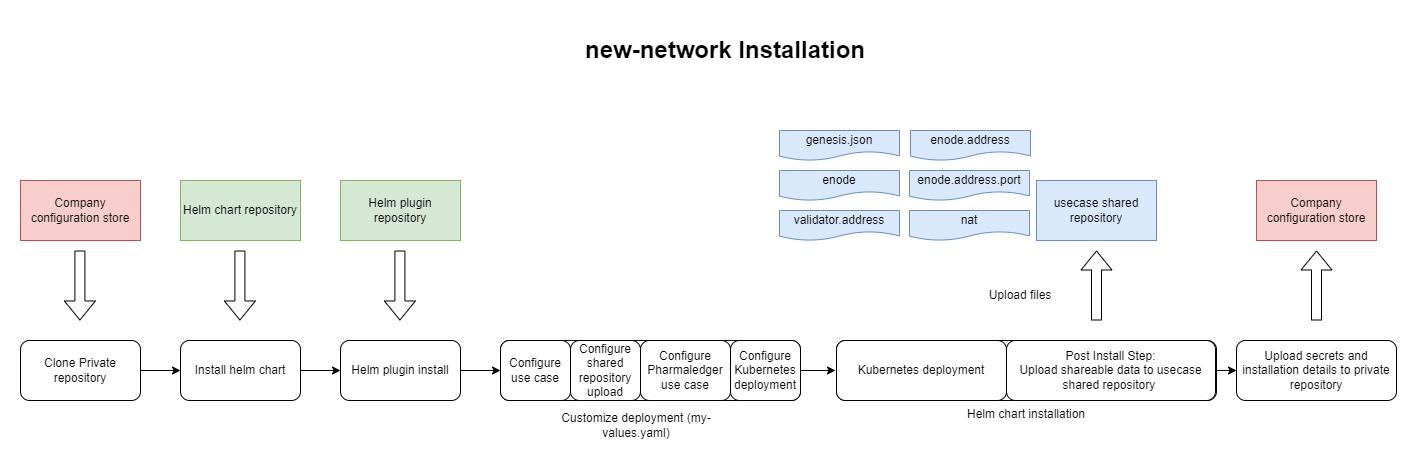
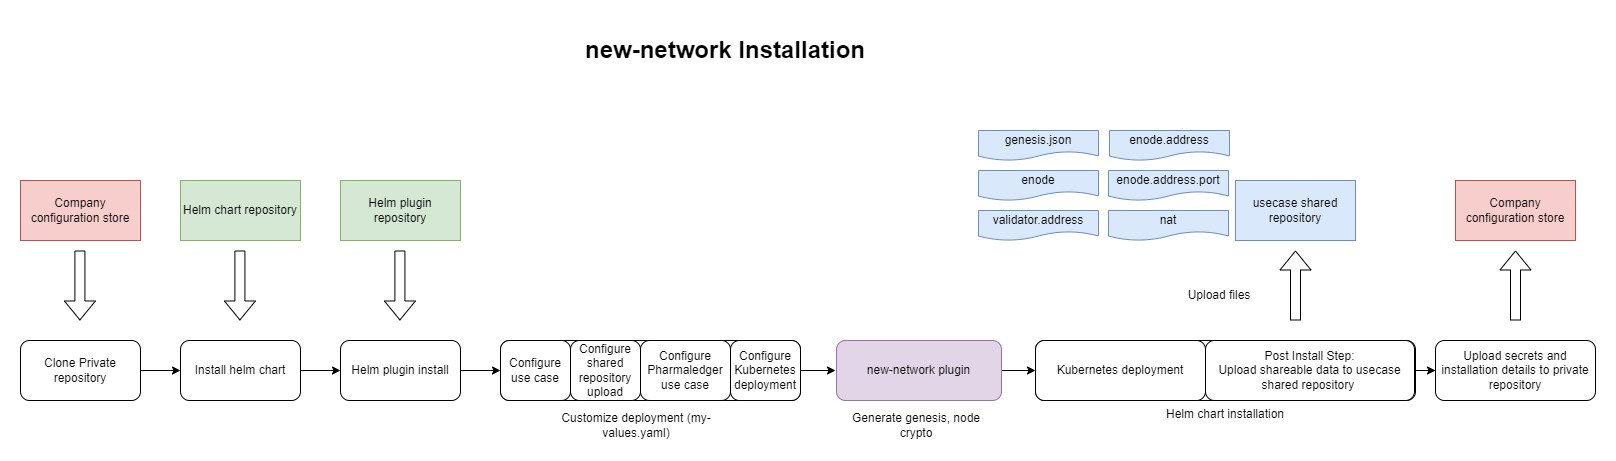
update use case docs

diff --git a/usecases/join-network/readme.md b/usecases/join-network/readme.md
@@ -1,67 +1,178 @@
-
-
 ## JoinNetwork use case
 
 Deploy a quorum blockchain node using the shared information from a configuration repository. After the deployment, the public node information is uploaded to a chosen repository
 
-Chart name: join-network <br/>
-Plugin : join-network
+[Chart name: quorum-node](../../charts/quorum-node)<br/>
+[Plugin : join-network](https://github.com/PharmaLedger-IMI/helm-pl-plugin)
 
-### Joining Quorum Blockchain node deployment
+## Quorum node deployment
 
-#### Step 1: Clone your private config repository in the folder "private_configs"
+1. [Fresh Install](readme.md#fresh-install)
+2. [Standard Upgrade of the installation](readme.md#upgrade-the-installation)
+
+## Fresh Install
+
+![](join-network%20-%20install.jpg)
+
+### Step 1: Clone your private config repository in the folder "private_configs"
 
 
 1. After the repository was cloned, change the directory to the "private_configs" folder
 ```shell
 cd private_configs
 ```
-2. Create a folder which will represent your installation, like "network_name/charts/quorum-join-node-0" and change the directory to that folder
+2. Create a folder which will represent your installation, like "network_name/charts/quorum-node" and change the directory to that folder
 ```shell
-cd network_name/charts/quorum-join-node-0
+cd network_name/charts/quorum-node
 ```
 
-#### Step 2: Install the helm chart and the plugin
+### Step 2: Install the helm chart and the plugin
 
 1. Register the official, or the forked helm charts repository
 ```shell
-helm repo add helm-charts https://raw.githubusercontent.com/PharmaLedger-IMI/helm-charts/master/charts/releases
+helm repo add pharmaledger-imi https://pharmaledger-imi.github.io/helm-charts
 ```
-2. Install the helm chart _join-network_
+2. Download the values for the helm chart _quorum-node_
 ```shell
-helm pull helm-charts/join-network --untar
+helm show values pharmaledger-imi/quorum-node > my-values.yaml
 ```
-3. Install the _join-network_ plugin
+3. Install the _pl-plugin_ plugin
 ```shell
-helm plugin install https://github.com/PharmaLedger-IMI/helm-charts/plugins/join-network
+helm plugin install https://github.com/PharmaLedger-IMI/helm-pl-plugin
 ```
 
-#### Step 3: Adjust private_configs/network_name/charts/quorum-join-node-0/join-network/values.yaml
+### Step 3: Adjust private_configs/network_name/charts/quorum-node/my-values.yaml
 
 The file contains parametrization for different sets of values:
-1. specific data for the upload of the public shared information
+1. specific data for the upload of the public shared information (example github token, user, email, etc)
 2. specific data for the use case network, company name, public blockchain node endpoint and port
 3. storage data used by the blockchain deployment
 4. different annotations or configurations for the deployment
 
-#### Step 4: Install the helm chart
+The structure of the values.yaml and the deployment use case matrix is documented in [quorum-node chart folder](../../charts/quorum-node/readme.md)
 
-1. Use the _join-network_ plugin to download the genesis file and generate the node cryptography. 
+See below the required configuration.<br/>
+
+
+### Enable the use case
+Example :
+```yaml
+use_case:
+  newNetwork:
+    enabled: false
+  joinNetwork:
+    # -- Enable the join-network use case. Can only be used in collaboration with updatePartnerInfo use case
+    enabled: true
+    genesis_file_location: "https://raw.githubusercontent.com/<path to genesis file>"
+```
+
+### Enable the automatic shared repository upload
+Example:
+```yaml
+git_upload:
+  ## @param git_upload.enabled Enable the automatic upload to the use case shared repository of the shareable data
+  enabled: true
+  ## @param git_upload.email The email used by the git in order to upload the data
+  email: "xxx@yyy.zz"
+  ## @param git_upload.user The user used by the git in order to upload the data
+  user: "xyz"
+  ## The repository url using access token
+  git_repo_with_access_token: "github url using token access"
+```
+
+### Configure the Pharmaledger use case
+If the enode address is known, fill the enode_address  with the known endpoint (dns name or real ip), otherwise an upgrade will be required when the enode_address is known.<br/>
+Example for ePI use case:
+```yaml
+deployment:
+   # -- The name of the company that makes the deployment
+   company: "company"
+   # -- The name of the use case that is being deployed
+   network_name: "epi"
+   # -- The Quorum node public ip address
+   enode_address: ""
+   # -- The Port of the Quorum node public address
+   enode_address_port: "30303"
+   # -- NAT address, used for firewall configuration
+   NAT: "1.2.3.4"
+```
+
+
+### Step 4: Install the helm chart
+
+1. Use the _pl-plugin_ plugin to generate the cryptographic material for the Quorum node.
    The execution of the plugin will produce:
-   1. _join-network.plugin.json_ file that will contain the downloaded genesis information and the generated node public crypto data. The json file will be used by the helm charts.
-   2. _join-network.plugin.secrets.json_ file that will contain all the private information like private keys/passwords/etc. used for blockchain node cryptography.
-   
+   1. _join-network.plugin.json_ file that will contain all the generated information, like account, node public crypto data and downloaded genesis data. The json file will be used by the helm charts. This file will be preserved in the private repository.
+      This file is also used in two ways:
+      1. to generate the configmaps for the deployment of the Quorum Node (see step 4.2)
+      2. in the post-install step of the helm chart (in 4.2) to generate shared configurations and upload it in the shared repository (documented in https://github.com/PharmaLedger-IMI/helm-charts/blob/master/charts/read.me)
+
+   3. _join-network.plugin.secrets.json_ file that will contain all the private information like private keys/passwords/etc. of the blockchain node. This file will be preserved in the private repository.
+
 ```shell
-helm join-network -i ./values.yaml -o .
+helm pl-plugin --joinNetwork -i ./my-values.yaml -o .
 ```
 
 2. Install the helm chart
 ```shell
-helm install join-network . -f ./values.yaml
+helm upgrade --install qn-0 pharmaledger-imi/quorum-node -f ./my-values.yaml --set-file use_case.joinNetwork.plugin_data_common=./join-network.plugin.json,use_case.joinNetwork.plugin_data_secrets=./join-network.plugin.secrets.json
+```
+3. Upload shared data to the shared-repository
+
+The files that are needed to be uploaded are :
+1. enode - contains the enode address
+2. enode.address - contains the public ip or dns by which the quorum node is accessible
+3. enode.address.port - contains the quorum node port
+4. validator.address - quorum node address
+5. nat - the NAT address
+
+If the setting git_upload.enabled is _true_, then the files are uploaded by the deployment process.
+
+If the setting git_upload.enabled is _false_, then the files must be uploaded and created by using other means.
+
+### Step 5: Backup your installation and private information
+
+Upload to your private repository all the data located in the folder _private_configs/network_name/charts/quorum-node_
+
+
+## Upgrade the installation
+
+![](join-network%20-%20upgrade%20.jpg)
+
+### Step 1: Clone your private config repository in the folder "private_configs"
+
+
+1. After the repository was cloned, change the directory to the "private_configs" folder
+```shell
+cd private_configs
+```
+2. Change to the folder which represent your installation, like "network_name/charts/quorum-node"
+```shell
+cd network_name/charts/quorum-node
 ```
 
-#### Step 5: Backup your installation and private information
+### Step 2: Update the helm charts
 
-Upload to your private repository all the data located in the folder _private_configs/network_name/charts/quorum-join-node-0_
+1. Execute:
+```shell
+helm repo update pharmaledger-imi
+```
 
+### Step 3: Adjust private_configs/network_name/charts/quorum-node/my-values.yaml
 
+1. Check the release notes from breaking changes or resolutions regarding the upgrades
+2. Update the values not affecting the use case behaviour with new values in the _private_configs/network_name/charts/quorum-node/my-values.yaml_ file
+
+### Step 4: Upgrade the installation using the helm chart
+
+1. Upgrade the installation using the helm chart
+
+```shell
+helm upgrade --install qn-0 pharmaledger-imi/quorum-node -f ./my-values.yaml --set-file use_case.joinNetwork.plugin_data_common=./join-network.plugin.json,use_case.joinNetwork.plugin_data_secrets=./join-network.plugin.secrets.json
+```
+
+If the setting git_upload.enabled is _true_, then the changed files are uploaded by the deployment process. Otherwise, the changes in the shared repository must be done by using other means.
+
+### Step 5: Backup your installation information
+
+Upload to your private repository all the data located in the folder _private_configs/network_name/charts/quorum-node_

diff --git a/usecases/update-partners-info/readme.md b/usecases/update-partners-info/readme.md
@@ -2,12 +2,14 @@
 
 ## updatePartnersInfo use case
 
-Update, create or remove partners information from the Quorum Blockchain Node. It applies in cases where a new node is joining the network, a node changed its connection details, or a node is leaving the network. 
+Update peers/validators information in the Quorum Blockchain Node. 
 
-Chart name: update-partners-info <br/>
+Chart name: quorum-node <br/>
 Plugin : update-partners-info
 
 ### Update Partners Information in a deployed Quorum node
+
+![](update-partners-info.jpg)
 
 #### Step 1: Clone your private config repository in the folder "private_configs"
 
@@ -16,51 +18,64 @@ Plugin : update-partners-info
 ```shell
 cd private_configs
 ```
-2. Create a folder which will represent your installation, like "network_name/charts/update-partners-info-qn-0" and change the directory to that folder
+2. Change to the folder which represent your installation, like "network_name/charts/quorum-node"
 ```shell
-cd network_name/charts/update-partners-info-qn-0
+cd network_name/charts/quorum-node
 ```
 
-#### Step 2: Install the helm chart and the plugin
+### Step 2: Update the helm charts
 
-1. Register the official, or the forked helm charts repository
+1. Execute:
 ```shell
-helm repo add helm-charts https://raw.githubusercontent.com/PharmaLedger-IMI/helm-charts/master/charts/releases
-```
-2. Install the helm chart _update-partners-info_
-```shell
-helm pull helm-charts/update-partners-info --untar
-```
-3. Install the _update-partners-info_ plugin
-```shell
-helm plugin install https://github.com/PharmaLedger-IMI/helm-charts/plugins/update-partners-info
+helm repo update pharmaledger-imi
 ```
 
-#### Step 3: Adjust private_configs/network_name/charts/update-partners-info-qn-0/update-partners-info/values.yaml
+#### Step 3: Adjust private_configs/network_name/charts/quorum-node/my-values.yaml
 
-The file contains parametrization for different sets of values:
-1. specific data for the download of the public shared information
-2. specific data for the use case network, company name, etc.
-3. different annotations or configurations for the deployment
+
+### Enable the use case
+Example :
+```yaml
+use_case:
+   updatePartnersInfo:
+      enabled: true
+      shared_data_location: "https://raw.githubusercontent.com/<path to the deployed use case eg. Pharmaledger-IMI/usecase-shared-data/master/networks/epi >"
+      peers: [
+            company-1,
+            company-2,
+            company-3
+      ]
+```
 
 #### Step 4: Install the helm chart
 
-1. Use the _update-partners-info_ plugin to download and aggregate the quorum node connection details and network validators list. 
+1. Use the _pl-plugin_ plugin to download and aggregate the quorum node connection details and network validators list. 
    The execution of the plugin will produce:
    1. _update-partners-info.plugin.json_ file that will contain all the generated information, like the list of all validators and enode connections. The json file will be used by the helm charts.
    
 ```shell
-helm update-partners-info -i ./values.yaml -o .
+helm pl-plugin --update-partners-info -i ./values.yaml -o .
 ```
 
-2. Install the helm chart
+2. Install the helm chart 
+<br/><br/>***Note: Chose the upgrade path based on your initial use case***<br/><br/>
+   
+2.1 Upgraded installation is of use case type **new-network**
+  
 ```shell
-helm install update-partners-info . -f ./values.yaml
+helm upgrade --install qn-0 pharmaledger-imi/quorum-node -f ./my-values.yaml --set-file use_case.newNetwork.plugin_data_common=./new-network.plugin.json,use_case.newNetwork.plugin_data_secrets=./new-network.plugin.secrets.json,use_case.updatePartnersInfo.plugin_data_common=./update-partners-info.plugin.json
 ```
-The execution of the chart will update all the validators and enode connections. Also, will execute propose operations for the validators.
+
+2.2 Upgraded installation is of use case type **join-network**
+
+```shell
+helm upgrade --install qn-0 pharmaledger-imi/quorum-node -f ./my-values.yaml --set-file use_case.joinNetwork.plugin_data_common=./join-network.plugin.json,use_case.joinNetwork.plugin_data_secrets=./join-network.plugin.secrets.json,use_case.updatePartnersInfo.plugin_data_common=./update-partners-info.plugin.json
+```
+
+The execution of the chart will update all the peers and propose all the peers as validators.
 
 #### Step 5: Backup your installation and private information
 
-Upload to your private repository all the data located in the folder _private_configs/network_name/charts/update-partners-info-qn-0_
+Upload to your private repository all the data located in the folder _private_configs/network_name/charts/quorum-node_
 
 

diff --git a/usecases/new-network/readme.md b/usecases/new-network/readme.md
@@ -43,7 +43,7 @@ helm show values pharmaledger-imi/quorum-node > my-values.yaml
 helm plugin install https://github.com/PharmaLedger-IMI/helm-pl-plugin
 ```
 
-### Step 3: Adjust private_configs/network_name/charts/quorum-node/new-network/my-values.yaml
+### Step 3: Adjust private_configs/network_name/charts/quorum-node/my-values.yaml
 
 The file contains parametrization for different sets of values:
 1. specific data for the upload of the public shared information (example github token, user, email, etc)
@@ -158,10 +158,10 @@ cd network_name/charts/quorum-node
 helm repo update pharmaledger-imi
 ```
 
-### Step 3: Adjust private_configs/network_name/charts/quorum-node/new-network/my-values.yaml
+### Step 3: Adjust private_configs/network_name/charts/quorum-node/my-values.yaml
 
 1. Check the release notes from breaking changes or resolutions regarding the upgrades
-2. Update the values not affecting the use case behaviour with new values in the _private_configs/network_name/charts/quorum-node/new-network/my-values.yaml_ file
+2. Update the values not affecting the use case behaviour with new values in the _private_configs/network_name/charts/quorum-node/my-values.yaml_ file
 
 ### Step 4: Upgrade the installation using the helm chart
 
